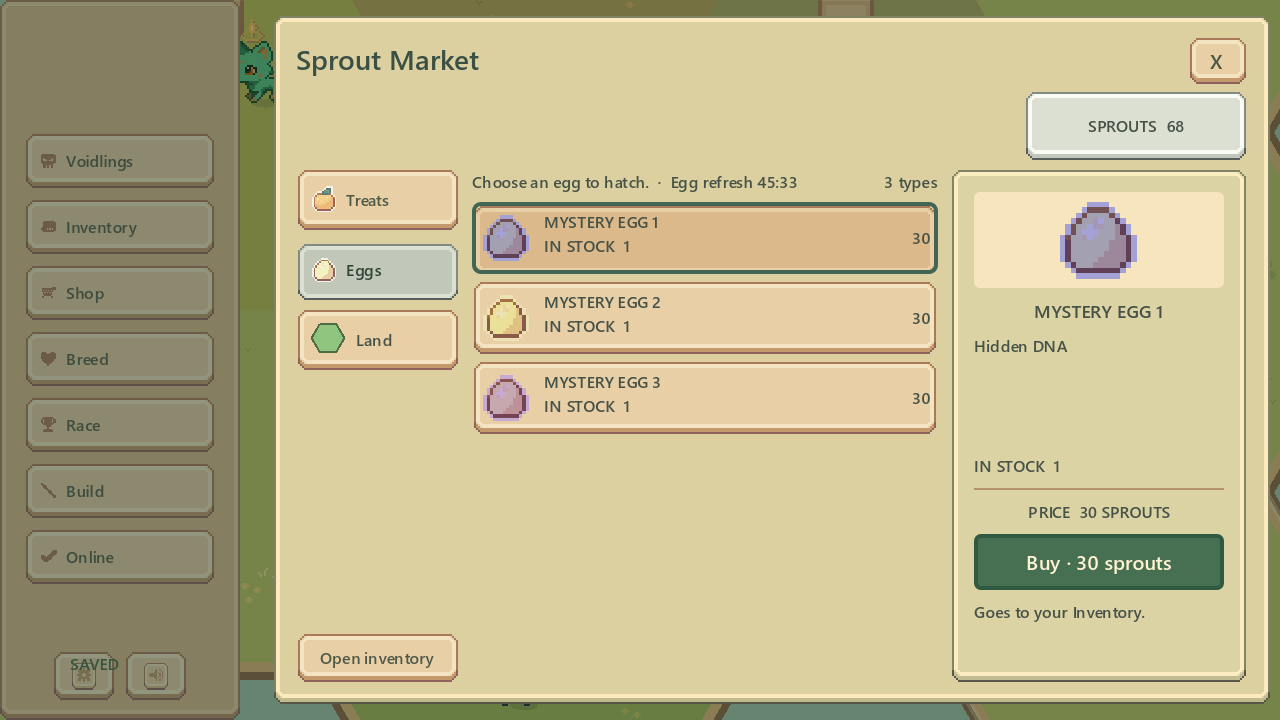
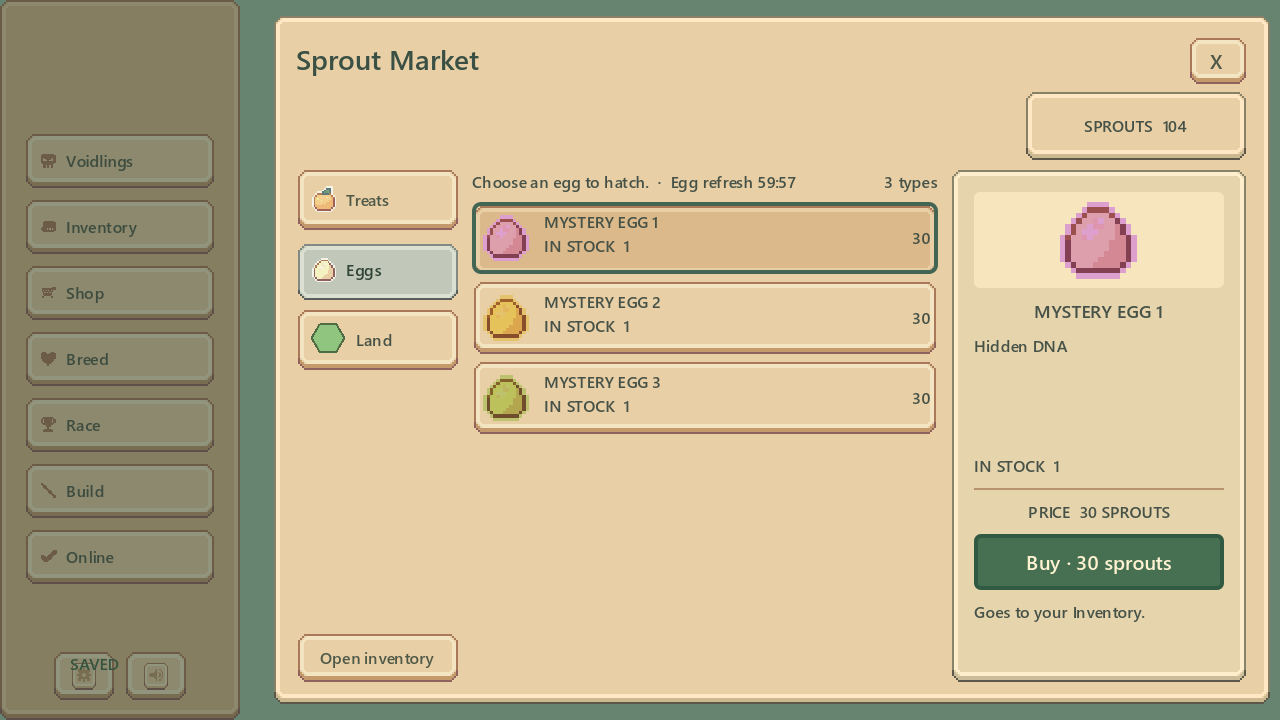
Match Shop palette and prioritize creature hover

diff --git a/Scripts/Presentation/UI/Shop/ShopScreen.cs b/Scripts/Presentation/UI/Shop/ShopScreen.cs
@@ -95,7 +95,7 @@ public partial class ShopScreen : VBoxContainer
         var receiptPanel = UiFactory.CreatePanel(new Vector2(145, 225));
         receiptPanel.Name = "Receipt";
         var receiptStyle = (StyleBoxTexture)receiptPanel.GetThemeStylebox("panel").Duplicate();
-        receiptStyle.ModulateColor = Color.FromHtml("#FFF0C8");
+        receiptStyle.ModulateColor = new Color(230f / 220f, 212f / 224f, 173f / 210f);
         receiptPanel.AddThemeStyleboxOverride("panel", receiptStyle);
         body.AddChild(receiptPanel);
         _receipt = new VBoxContainer();
@@ -116,6 +116,9 @@ public partial class ShopScreen : VBoxContainer
         row.AddThemeConstantOverride("separation", 6);
         row.AddChild(new Control { SizeFlagsHorizontal = SizeFlags.ExpandFill });
         var wallet = UiFactory.CreatePanel(new Vector2(112, 24));
+        var walletStyle = (StyleBoxTexture)wallet.GetThemeStylebox("panel").Duplicate();
+        walletStyle.ModulateColor = new Color(232f / 220f, 207f / 224f, 166f / 210f);
+        wallet.AddThemeStyleboxOverride("panel", walletStyle);
         var walletLabel = UiFactory.CreateLabel(string.Format(Tr("UI_SHOP_WALLET"), _state!.Coins), 8);
         walletLabel.HorizontalAlignment = HorizontalAlignment.Center;
         walletLabel.VerticalAlignment = VerticalAlignment.Center;

diff --git a/Scripts/Garden/GardenController.Land.cs b/Scripts/Garden/GardenController.Land.cs
@@ -632,7 +632,10 @@ public partial class GardenController
     /// </summary>
     private void UpdateLandHover()
     {
-        var hovered = _inputEnabled && !IsPlacingLand && !IsPlacingEgg ? ModuleIdUnderPointer() : "";
+        var pointerOverVoidling = _draggedId.Length == 0 && _actors.Values.Any(actor => actor.IsPointerHovered);
+        var hovered = _inputEnabled && !IsPlacingLand && !IsPlacingEgg && !pointerOverVoidling
+            ? ModuleIdUnderPointer()
+            : "";
         if (hovered == _hoveredModuleId)
             return;
 

diff --git a/Scripts/UI/MainController.ShopBreeding.cs b/Scripts/UI/MainController.ShopBreeding.cs
@@ -67,7 +67,7 @@ public partial class MainController : Node
             GameRules.ShopEggRotationIntervalSeconds - state.ShopEggRotationElapsedSeconds));
 
         var box = OpenRailModal(Tr("UI_SHOP_TITLE"), new Vector2(520, 344),
-            panelTint: Color.FromHtml("#FFEDC4"));
+            panelTint: new Color(232f / 220f, 207f / 224f, 166f / 210f));
         box.AddThemeConstantOverride("separation", 4);
 
         var screen = new ShopScreen();

diff --git a/Scripts/Actors/VoidlingActor.cs b/Scripts/Actors/VoidlingActor.cs
@@ -10,6 +10,7 @@ public partial class VoidlingActor : Node2D
 
     public string CreatureId { get; private set; } = "";
     public LifeStage Stage { get; private set; }
+    public bool IsPointerHovered => _hovered;
 
     private readonly RandomNumberGenerator _rng = new();
     private AnimatedSprite2D _sprite = null!;

diff --git a/docs/UI_UX_IMPLEMENTATION_PLAN.md b/docs/UI_UX_IMPLEMENTATION_PLAN.md
@@ -141,7 +141,7 @@ Stage 2 passed Debug and Release builds, all 236 tests, architecture/localizatio
 
 ### Shop and Garden refinement
 
-- Removed the garden-name eyebrow, stall prompt and Escape footer from Sprout Market; lightened the paper to match option 04 and added item previews to the Treats, Eggs and Land category buttons.
+- Removed the garden-name eyebrow, stall prompt and Escape footer from Sprout Market; matched the reference's warm beige paper palette and added item previews to the Treats, Eggs and Land category buttons.
 - Clicking the shaded area outside any modal now closes it through `ModalHost`, covering Settings and every rail submenu that uses the shared host.
 - Moved the Garden name and numeric sprout balance to the upper right with the premium sprout icon, moved the day/night dial into the former garden-card position, and removed Center.
-- Added faint pointer hover outlines for Voidlings and hexes. Clicking a placed hex now opens its conversion, occupancy and upgrade controls in the right-side Garden inspector without blocking the world.
+- Added faint pointer hover outlines for Voidlings and hexes, with the Voidling taking priority when both overlap. Clicking a placed hex now opens its conversion, occupancy and upgrade controls in the right-side Garden inspector without blocking the world.
